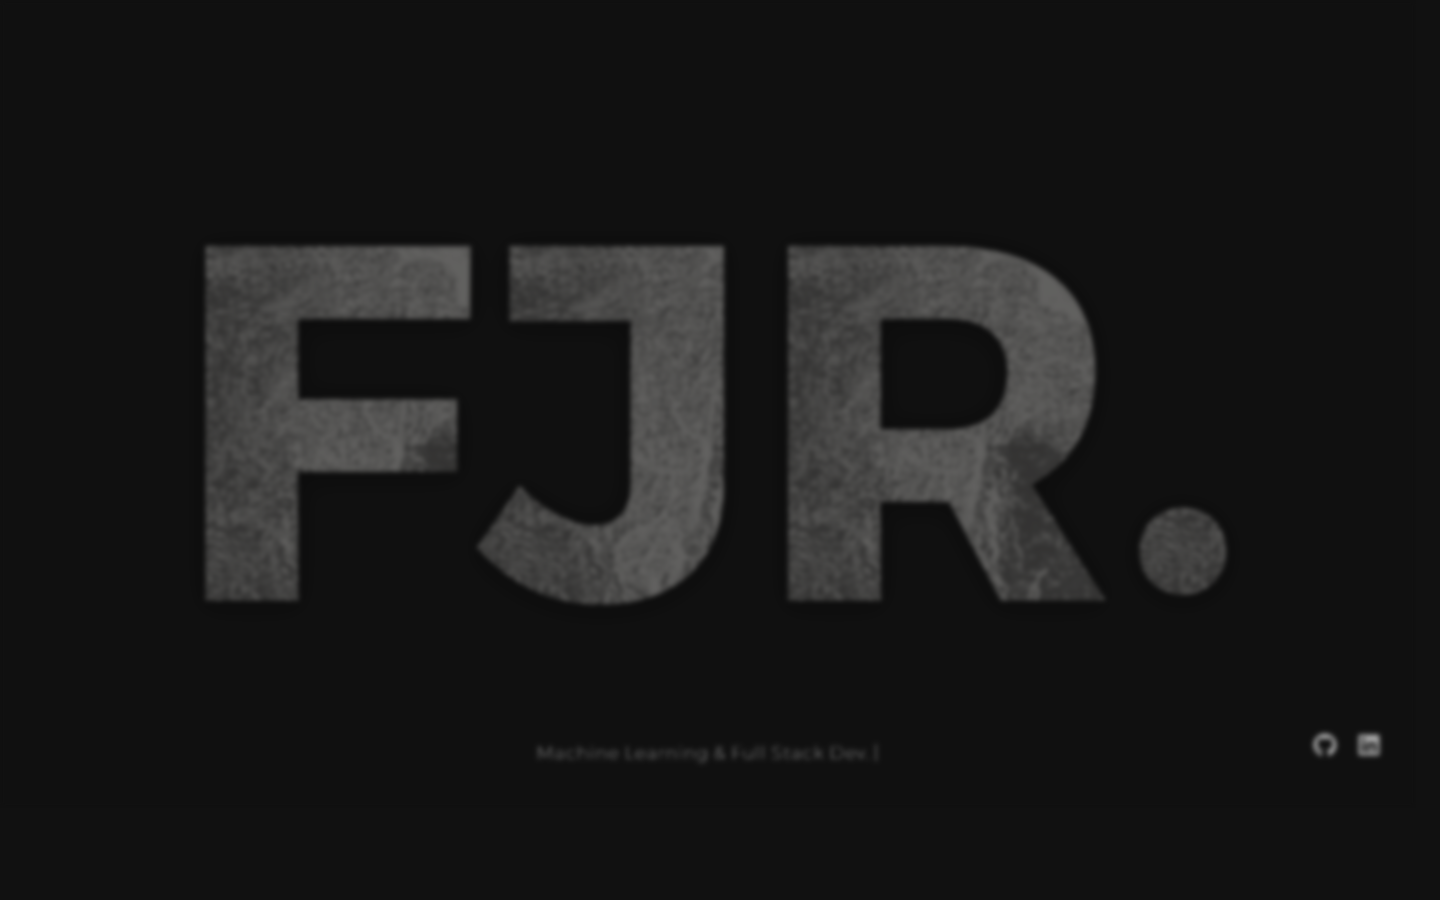
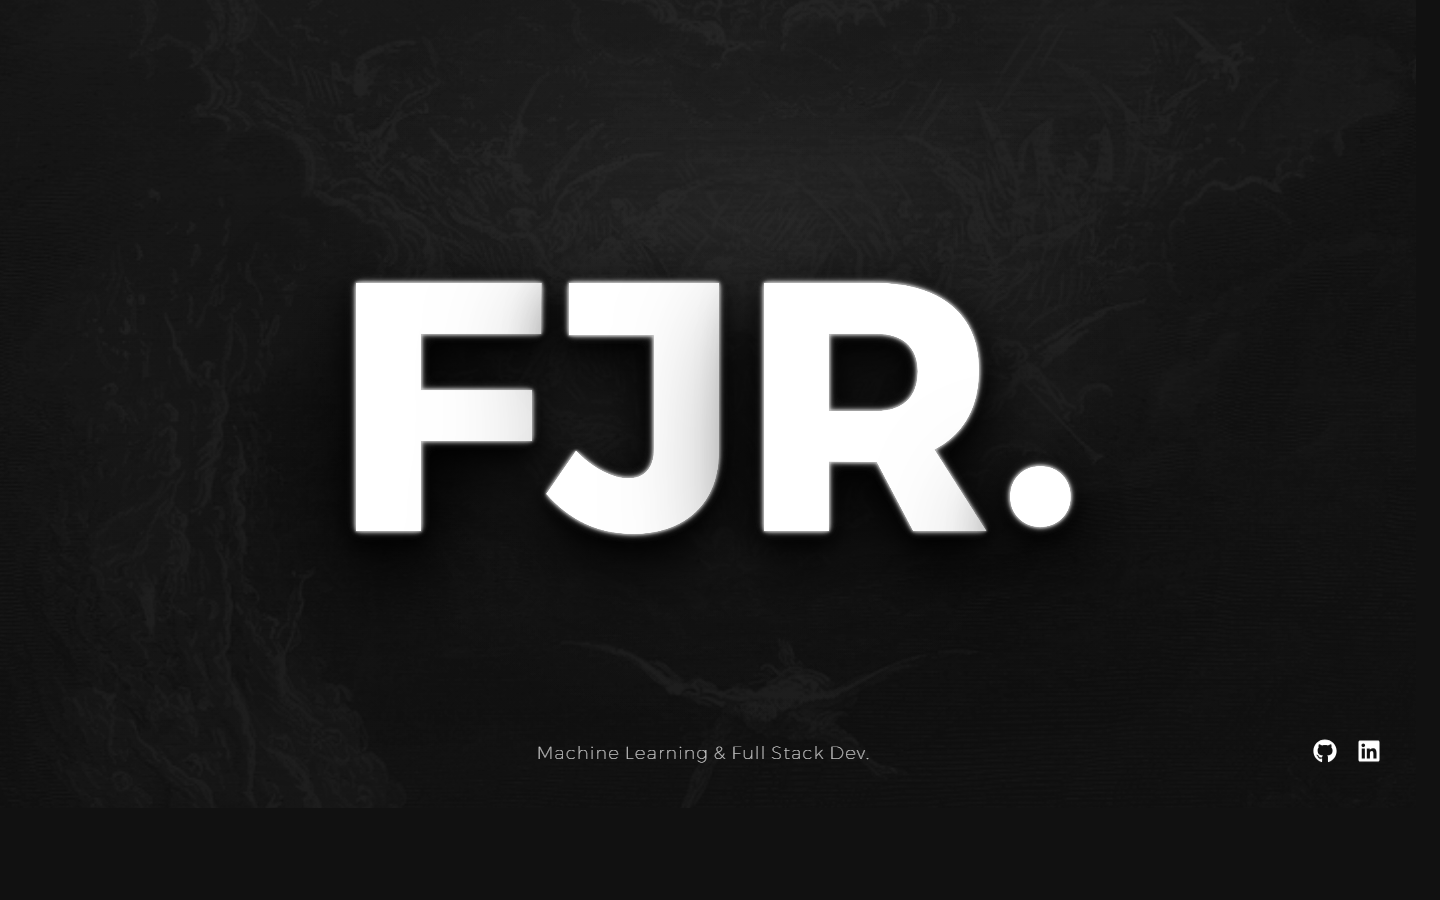
V.14

Changed region(s): [[0.125, 0.2489, 0.875, 0.6844], [0.9062, 0.8089, 0.9688, 0.8711], [0.375, 0.8089, 0.4062, 0.84]]

diff --git a/src/styles.css b/src/styles.css
@@ -349,10 +349,56 @@ body::-webkit-scrollbar {
   z-index: 3;
 }
 
+.hero-fjr-backdrop {
+  position: absolute;
+  inset: 0;
+  z-index: 0;
+  overflow: hidden;
+  pointer-events: none;
+  opacity: 0;
+  background: #111;
+  transition: opacity 0.96s ease;
+}
+
+.hero-fjr-backdrop.is-visible {
+  opacity: 1;
+}
+
+.hero-fjr-backdrop::after {
+  content: '';
+  position: absolute;
+  inset: 0;
+  background:
+    radial-gradient(circle at 50% 40%, rgba(255, 255, 255, 0.05) 0%, rgba(255, 255, 255, 0) 48%),
+    linear-gradient(180deg, rgba(17, 17, 17, 0.18) 0%, rgba(17, 17, 17, 0.42) 100%);
+}
+
+.hero-fjr-backdrop__image {
+  position: absolute;
+  inset: -7%;
+  background-image: var(--hero-fjr-backdrop-image);
+  background-position: center 22%;
+  background-repeat: no-repeat;
+  background-size: cover;
+  opacity: 0.1;
+  filter: grayscale(1) brightness(0.92) contrast(1.08);
+  transform: scale(1);
+  transform-origin: center;
+  will-change: transform, opacity;
+}
+
+.hero-fjr-backdrop--intro {
+  animation: hero-fjr-backdrop-fade 1.96s cubic-bezier(0.19, 1, 0.22, 1) both;
+}
+
+.hero-fjr-backdrop--intro .hero-fjr-backdrop__image {
+  animation: hero-fjr-backdrop-zoom 3.1s cubic-bezier(0.19, 1, 0.22, 1) both;
+}
+
 .hero-fjr-wordmark {
   position: absolute;
   inset: 0;
-  z-index: 1;
+  z-index: 2;
   display: flex;
   align-items: center;
   justify-content: center;
@@ -369,6 +415,7 @@ body::-webkit-scrollbar {
 
 .hero-fjr-wordmark__inner {
   position: relative;
+  z-index: 1;
   display: inline-flex;
   align-items: flex-end;
   gap: clamp(0.01rem, 0.07vw, 0.06rem);
@@ -386,11 +433,11 @@ body::-webkit-scrollbar {
 }
 
 .hero-fjr-wordmark--intro {
-  animation: hero-fjr-wordmark-enter 1.42s cubic-bezier(0.19, 1, 0.22, 1) both;
+  animation: hero-fjr-wordmark-enter 1.96s cubic-bezier(0.19, 1, 0.22, 1) both;
 }
 
 .hero-fjr-wordmark--intro .hero-fjr-wordmark__inner {
-  animation: hero-fjr-wordmark-inner-enter 1.88s cubic-bezier(0.19, 1, 0.22, 1) both;
+  animation: hero-fjr-wordmark-inner-enter 3.1s cubic-bezier(0.19, 1, 0.22, 1) both;
 }
 
 .hero-fjr-wordmark--transition-active {
@@ -411,8 +458,14 @@ body::-webkit-scrollbar {
   display: block;
   z-index: 1;
   isolation: isolate;
-  color: transparent;
+  color: rgba(255, 255, 255, 0.99);
   pointer-events: none;
+  filter:
+    drop-shadow(0 0 1px rgba(255, 255, 255, 0.88))
+    drop-shadow(0 0 3px rgba(255, 255, 255, 0.04))
+    drop-shadow(0 8px 10px rgba(0, 0, 0, 0.96))
+    drop-shadow(0 20px 28px rgba(0, 0, 0, 0.8))
+    drop-shadow(0 38px 58px rgba(0, 0, 0, 0.58));
   transition:
     color 0.22s ease,
     opacity 0.68s ease,
@@ -432,24 +485,36 @@ body::-webkit-scrollbar {
   pointer-events: none;
 }
 
+.hero-fjr-wordmark__filter-defs {
+  position: absolute;
+  width: 0;
+  height: 0;
+  overflow: hidden;
+  pointer-events: none;
+}
+
+.hero-fjr-wordmark__glyph-face {
+  position: absolute;
+  inset: 0;
+  display: block;
+  pointer-events: none;
+  filter: url(#hero-fjr-wordmark-face);
+}
+
 .hero-fjr-wordmark__glyph-fill--base {
   z-index: 2;
   color: #ffffff;
+  text-shadow:
+    0 0 0.4px rgba(255, 255, 255, 1),
+    0 0 4px rgba(255, 255, 255, 0.05);
 }
 
-.hero-fjr-wordmark__glyph-fill--ink {
+.hero-fjr-wordmark__glyph-fill--glow {
   z-index: 3;
-  color: transparent;
-  -webkit-text-fill-color: transparent;
-  background-image: var(--hero-fjr-wordmark-texture-image);
-  background-repeat: no-repeat;
-  background-size: var(--hero-fjr-glyph-bg-size);
-  background-position: var(--hero-fjr-glyph-bg-position);
-  -webkit-background-clip: text;
-  background-clip: text;
-  filter: grayscale(1) brightness(1.72) contrast(2.05);
-  mix-blend-mode: multiply;
-  opacity: 0.42;
+  color: rgba(255, 255, 255, 0.96);
+  opacity: 0.32;
+  filter: blur(0.28px);
+  mix-blend-mode: screen;
 }
 
 .hero-fjr-wordmark__glyph-char {
@@ -463,37 +528,44 @@ body::-webkit-scrollbar {
   content: attr(data-char);
   position: absolute;
   inset: 0;
-  color: transparent;
+  color: rgba(255, 255, 255, 0.94);
   pointer-events: none;
 }
 
 .hero-fjr-wordmark__glyph::before {
-  z-index: -1;
-  text-shadow:
-    0 1px 0 rgba(0, 0, 0, 0.98),
-    0 0 12px rgba(0, 0, 0, 0.82),
-    0 0 26px rgba(0, 0, 0, 0.5),
-    0 9px 16px rgba(0, 0, 0, 0.26);
+  opacity: 0.06;
+  filter: blur(5.5px);
 }
 
 .hero-fjr-wordmark__glyph::after {
-  z-index: -2;
-  opacity: 0;
-  text-shadow:
-    0 0 10px rgba(255, 255, 255, 0.88),
-    0 0 18px rgba(255, 255, 255, 0.52),
-    0 0 28px rgba(255, 255, 255, 0.22);
-  transition:
-    opacity 1.18s ease,
-    text-shadow 0.32s ease;
+  opacity: 0.11;
+  filter: blur(0.9px);
+}
+
+.hero-fjr-wordmark--glow-active .hero-fjr-wordmark__glyph::before {
+  opacity: 0.08;
 }
 
 .hero-fjr-wordmark--glow-active .hero-fjr-wordmark__glyph::after {
-  opacity: 0.82;
+  opacity: 0.14;
 }
 
 .hero-fjr-wordmark__glyph--active {
   color: #ffffff;
+  filter:
+    drop-shadow(0 0 1px rgba(255, 255, 255, 1))
+    drop-shadow(0 0 5px rgba(255, 255, 255, 0.07))
+    drop-shadow(0 8px 12px rgba(0, 0, 0, 0.98))
+    drop-shadow(0 22px 30px rgba(0, 0, 0, 0.84))
+    drop-shadow(0 42px 64px rgba(0, 0, 0, 0.62));
+}
+
+.hero-fjr-wordmark__glyph--active::before {
+  opacity: 0.16;
+}
+
+.hero-fjr-wordmark__glyph--active::after {
+  opacity: 0.26;
 }
 
 .hero-fjr-wordmark__glyph--dot {
@@ -513,7 +585,8 @@ body::-webkit-scrollbar {
 .hero-fjr-wordmark--transition-letters-fade .hero-fjr-wordmark__glyph--dot::after,
 .hero-fjr-wordmark--transition-dot-shrink .hero-fjr-wordmark__glyph--dot::after,
 .hero-fjr-wordmark--transition-dot-flight .hero-fjr-wordmark__glyph--dot::after {
-  opacity: 0.5;
+  opacity: 0.9;
+  filter: blur(0.8px);
   text-shadow:
     0 0 10px rgba(255, 255, 255, 0.98),
     0 0 20px rgba(255, 255, 255, 0.62),
@@ -1760,7 +1833,7 @@ body::-webkit-scrollbar {
   }
 
   .hero-fjr-wordmark__inner {
-    font-size: clamp(8.6rem, 32vw, 12rem);
+    font-size: clamp(5rem, 23vw, 7.4rem);
   }
 
   .hero-search-scene {
@@ -1980,10 +2053,41 @@ body::-webkit-scrollbar {
   }
 }
 
+@keyframes hero-fjr-backdrop-fade {
+  0% {
+    opacity: 0;
+  }
+  62% {
+    opacity: 1;
+  }
+  100% {
+    opacity: 1;
+  }
+}
+
+@keyframes hero-fjr-backdrop-zoom {
+  0% {
+    opacity: 0.06;
+    transform: scale(1.24);
+  }
+  58% {
+    opacity: 0.09;
+    transform: scale(1.08);
+  }
+  100% {
+    opacity: 0.1;
+    transform: scale(1);
+  }
+}
+
 @keyframes hero-fjr-wordmark-enter {
   0% {
     opacity: 0;
-    transform: translate3d(0, 1.5rem, 0);
+    transform: translate3d(0, 2rem, 0);
+  }
+  62% {
+    opacity: 1;
+    transform: translate3d(0, 0.18rem, 0);
   }
   100% {
     opacity: 1;
@@ -1993,7 +2097,10 @@ body::-webkit-scrollbar {
 
 @keyframes hero-fjr-wordmark-inner-enter {
   0% {
-    transform: perspective(1600px) translate3d(0, 0.4rem, 420px) scale(1.38);
+    transform: perspective(1600px) translate3d(0, 0.72rem, 560px) scale(1.56);
+  }
+  58% {
+    transform: perspective(1600px) translate3d(0, 0.16rem, 140px) scale(1.16);
   }
   100% {
     transform: perspective(1600px) translate3d(0, 0, 0) scale(1);

diff --git a/src/sections/HeroSection.tsx b/src/sections/HeroSection.tsx
@@ -18,6 +18,7 @@ import { FaGithub, FaLinkedin, FaMicrophone, FaPaperPlane, FaSearch } from 'reac
 import { HeroAgentPanel, type HeroAgentTurn } from '../components/hero-agent/HeroAgentPanel';
 import { HeroParticlesAdvanced } from '../components/hero-particles/HeroParticlesAdvanced';
 import type { HeroTransitionPhase, ShapeName } from '../components/hero-particles/engine/types';
+import heroBackdropImageUrl from '../assets/hero/fjr-last-judgement.jpg';
 import heroWordmarkTextureUrl from '../assets/hero/fjr-last-judgement-wordmark-2.jpg';
 import { sendAgentMessage } from '../lib/agentApi';
 
@@ -289,7 +290,7 @@ const heroWordmarkDotShrinkDurationMs = 440;
 const heroWordmarkDotFlightDurationMs = 980;
 const heroWordmarkTextureImageWidth = 802;
 const heroWordmarkTextureImageHeight = 320;
-const heroWordmarkTextureZoom = 1.06;
+const heroWordmarkTextureZoom = 1.24;
 const heroWordmarkTextureFocusX = 0.5;
 const heroWordmarkTextureFocusY = 0.5;
 
@@ -2423,6 +2424,21 @@ export function HeroSection({
         >
           <div
             className={[
+              'hero-fjr-backdrop',
+              shouldShowHeroWordmark ? 'is-visible' : '',
+              shouldShowHeroWordmark && resolvedSampleIndex === 0 ? 'hero-fjr-backdrop--intro' : '',
+            ].filter(Boolean).join(' ')}
+            aria-hidden="true"
+          >
+            <div
+              className="hero-fjr-backdrop__image"
+              style={{
+                '--hero-fjr-backdrop-image': `url(${heroBackdropImageUrl})`,
+              } as CSSProperties}
+            />
+          </div>
+          <div
+            className={[
               'hero-fjr-wordmark',
               shouldShowHeroWordmark ? 'is-visible' : '',
               isHeroWordmarkGlowVisible ? 'hero-fjr-wordmark--glow-active' : '',
@@ -2440,6 +2456,35 @@ export function HeroSection({
             } as CSSProperties}
             aria-hidden="true"
           >
+            <svg
+              className="hero-fjr-wordmark__filter-defs"
+              width="0"
+              height="0"
+              aria-hidden="true"
+              focusable="false"
+            >
+              <defs>
+                <filter
+                  id="hero-fjr-wordmark-face"
+                  x="-36%"
+                  y="-36%"
+                  width="172%"
+                  height="172%"
+                  colorInterpolationFilters="sRGB"
+                >
+                  <feMorphology in="SourceAlpha" operator="erode" radius="1.4" result="inner-core" />
+                  <feGaussianBlur in="inner-core" stdDeviation="3" result="inner-core-blur" />
+                  <feFlood floodColor="#ffffff" floodOpacity="0.86" result="inner-core-color" />
+                  <feComposite in="inner-core-color" in2="inner-core-blur" operator="in" result="inner-core-glow" />
+                  <feGaussianBlur in="SourceAlpha" stdDeviation="0.7" result="edge-soften" />
+                  <feComposite in="SourceGraphic" in2="edge-soften" operator="over" result="base-graphic" />
+                  <feMerge>
+                    <feMergeNode in="base-graphic" />
+                    <feMergeNode in="inner-core-glow" />
+                  </feMerge>
+                </filter>
+              </defs>
+            </svg>
             <div
               ref={heroWordmarkInnerRef}
               className="hero-fjr-wordmark__inner"
@@ -2464,17 +2509,13 @@ export function HeroSection({
                     activeHeroWordmarkGlyphIndex === index ? 'hero-fjr-wordmark__glyph--active' : '',
                   ].filter(Boolean).join(' ')}
                 >
-                  <span className="hero-fjr-wordmark__glyph-fill hero-fjr-wordmark__glyph-fill--base" aria-hidden="true">
-                    {heroWordmarkDisplayGlyphs[index] ?? character}
-                  </span>
-                  <span
-                    className="hero-fjr-wordmark__glyph-fill hero-fjr-wordmark__glyph-fill--ink"
-                    style={{
-                      '--hero-fjr-wordmark-texture-image': `url(${heroWordmarkTextureUrl})`,
-                    } as CSSProperties}
-                    aria-hidden="true"
-                  >
-                    {heroWordmarkDisplayGlyphs[index] ?? character}
+                  <span className="hero-fjr-wordmark__glyph-face" aria-hidden="true">
+                    <span className="hero-fjr-wordmark__glyph-fill hero-fjr-wordmark__glyph-fill--base">
+                      {heroWordmarkDisplayGlyphs[index] ?? character}
+                    </span>
+                    <span className="hero-fjr-wordmark__glyph-fill hero-fjr-wordmark__glyph-fill--glow">
+                      {heroWordmarkDisplayGlyphs[index] ?? character}
+                    </span>
                   </span>
                   <span className="hero-fjr-wordmark__glyph-char">{heroWordmarkDisplayGlyphs[index] ?? character}</span>
                 </span>
